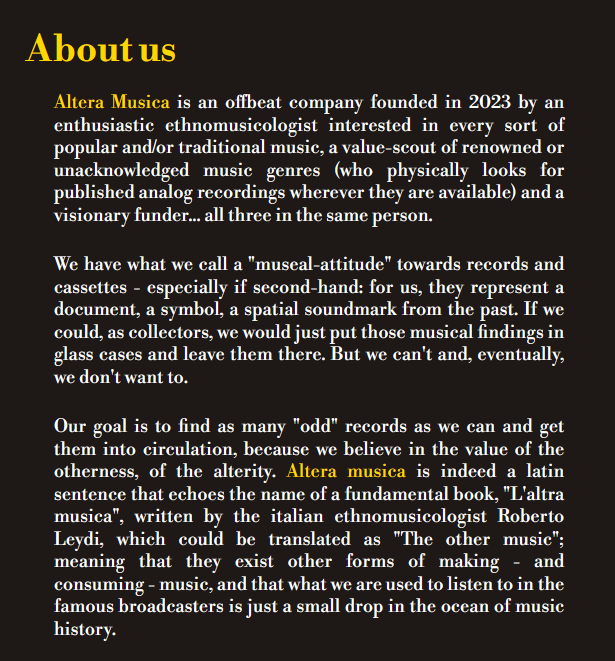
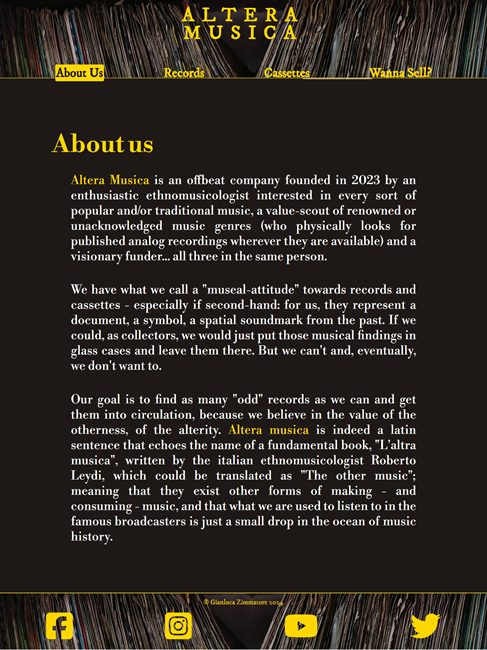
Add gallery and about sections screenshots to README.md

diff --git a/README.md b/README.md
@@ -269,10 +269,10 @@ The page consists of four pages (plus the 404.html page) and eleven general feat
 - in small screens, the images are displayed in single-item column; in larger screens, they show up paired.
 
 ##### Smartphone Version
-![Gallery](docs/features/gallery-smartphone.webp)
+![Gallery](docs/features/gallery-smartphone.png)
 
 ##### Desktop Version
-![Gallery](docs/features/gallery-larger.webp)
+![Gallery](docs/features/gallery-larger.png)
 <br>
 <br>
 
@@ -280,7 +280,7 @@ The page consists of four pages (plus the 404.html page) and eleven general feat
 - A block of more detailed information about the company and its vision;
 - when the name "Altera Musica" appears, it's with gold colour letters, to stand out.
 
-![About us](docs/features/about.webp)
+![About us](docs/features/about.png)
 <br>
 <br>
 
